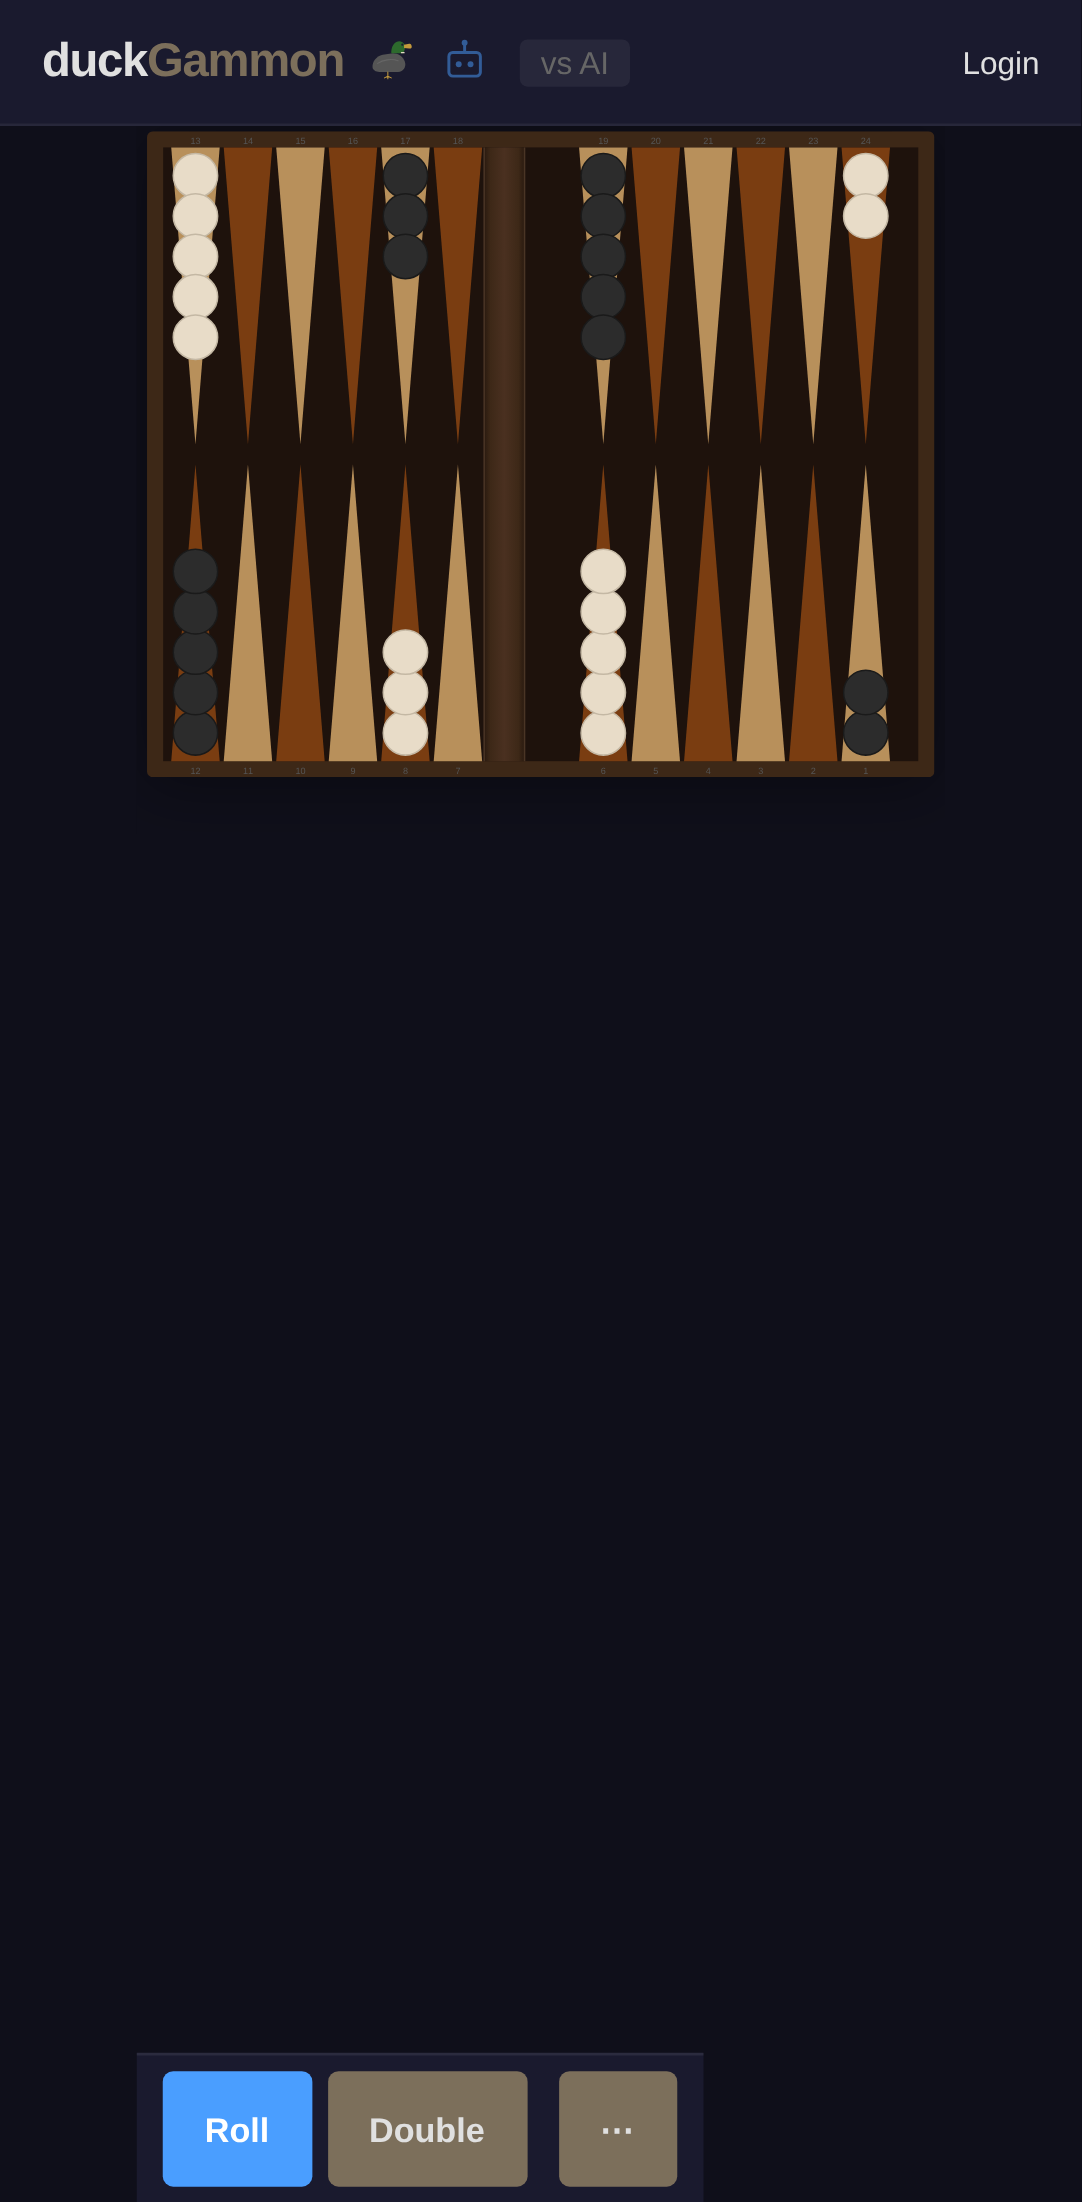
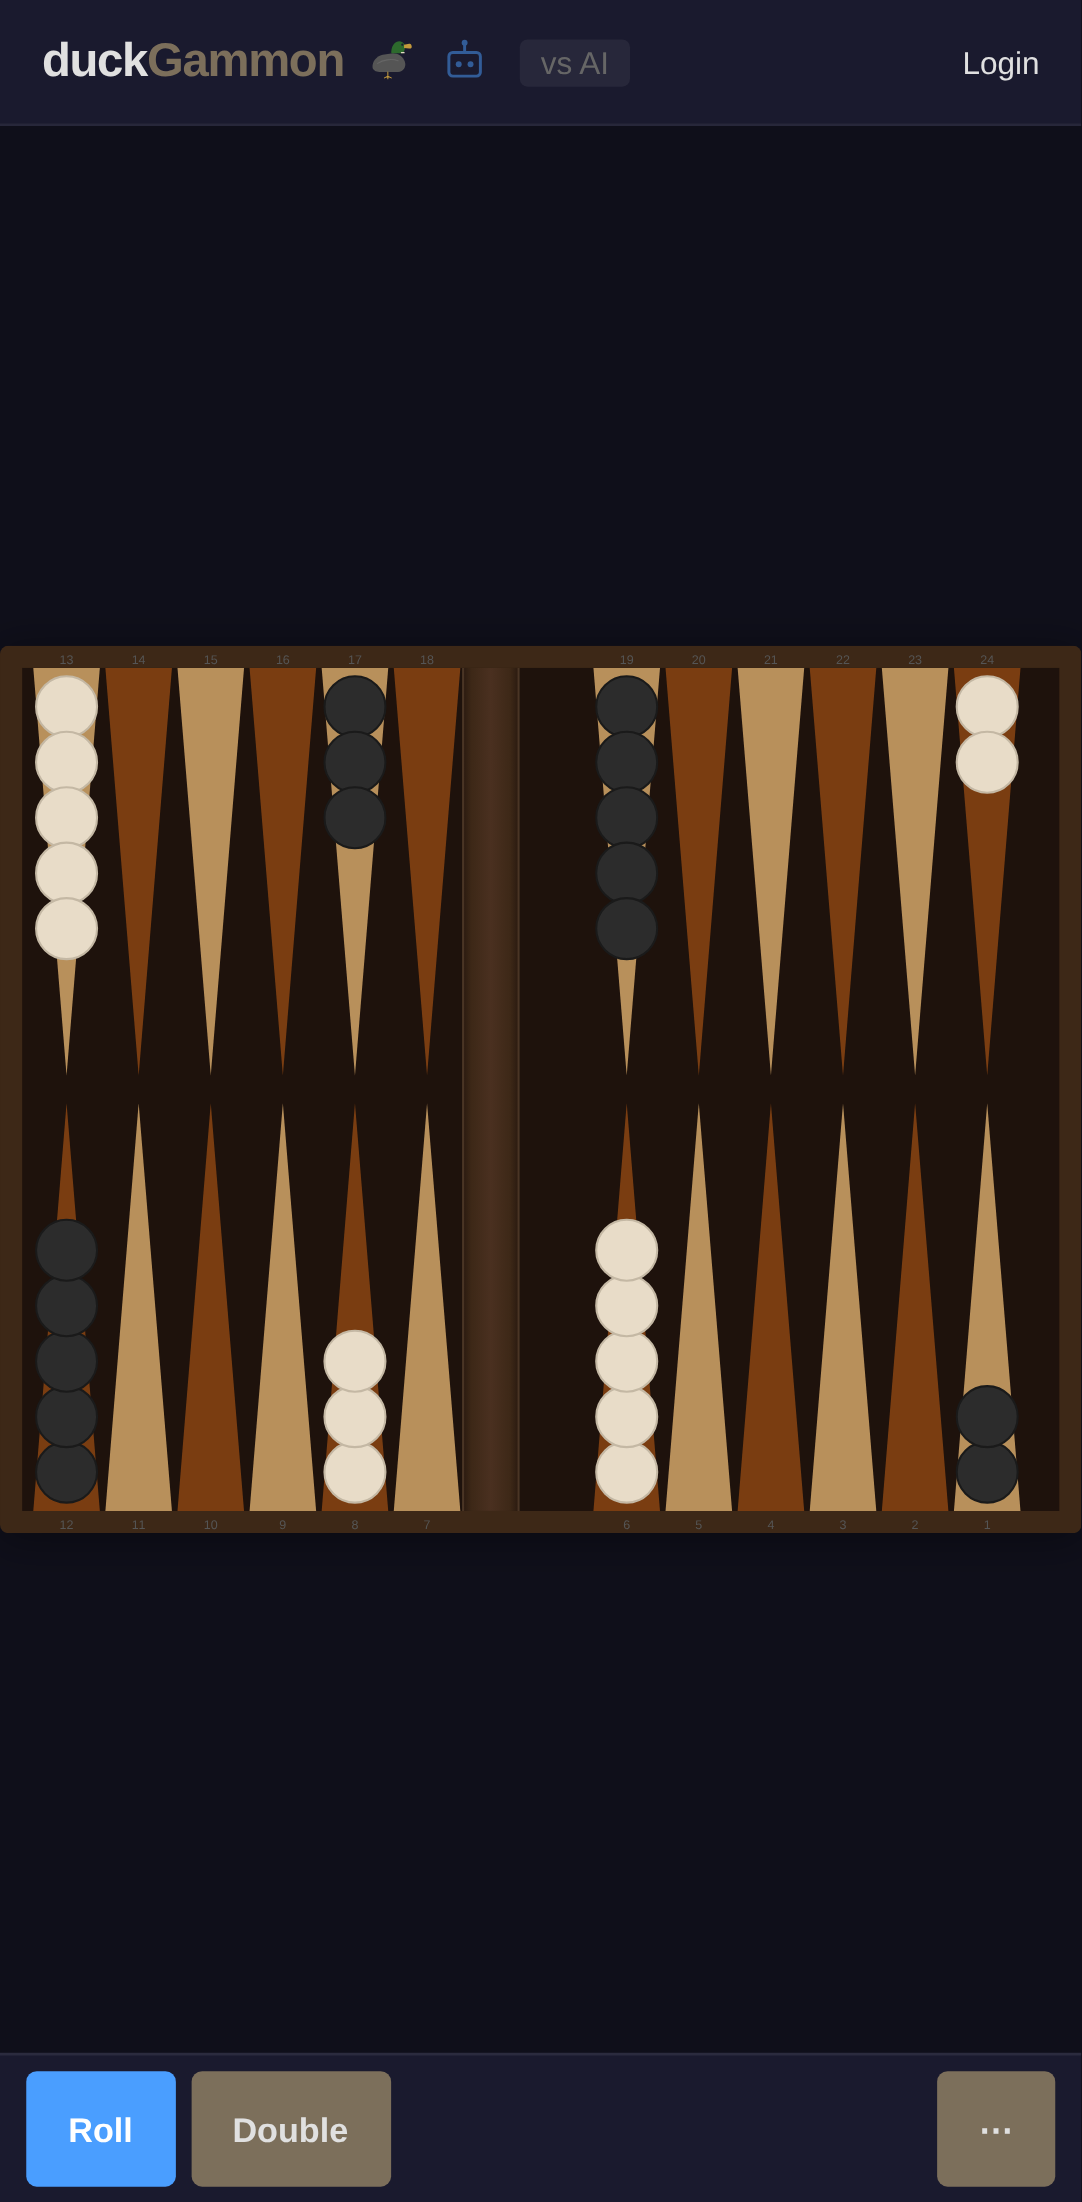
fix: mobile board sizing — full width, centered, correct CSS order
- Fixed CSS specificity issue: desktop .side-panel was defined AFTER the
  mobile media query, overriding mobile overlay styles. Moved desktop
  block before the media query so mobile rules win.
- Board SVG: width: 100%, height: auto — fills phone width, aspect ratio
  determines height. Centered vertically in available space.
- Action bar: explicit width: 100% to fill container.
- Board wrapper: takes available space without forcing SVG to stretch.
- Verified with Playwright screenshot: board renders correctly on
  Pixel 7 (412x839) at 412x338px, centered with action bar below.

All 220 vitest + 52 Playwright tests pass.

diff --git a/src/ui/styles/board.css b/src/ui/styles/board.css
@@ -36,6 +36,15 @@
   touch-action: manipulation;
 }
 
+/* Side panel — desktop */
+.side-panel {
+  width: 220px;
+  display: flex;
+  flex-direction: column;
+  gap: 10px;
+  flex-shrink: 0;
+}
+
 /* ─── Mobile action bar (hidden on desktop) ─── */
 .mobile-action-bar { display: none; }
 .mobile-backdrop { display: none; }
@@ -46,6 +55,7 @@
     flex-direction: column;
     padding: 0;
     gap: 0;
+    width: 100%;
     height: calc(100vh - var(--header-height));
     overflow: hidden;
   }
@@ -54,15 +64,23 @@
     flex: 1 1 0;
     min-height: 0;
     width: 100%;
-    padding: 2px 4px 0;
+    padding: 0;
+    justify-content: center;
+    align-items: center;
+    overflow: hidden;
+  }
+
+  .board-wrapper {
+    width: 100%;
+    max-height: 100%;
   }
 
   .board-svg {
+    display: block;
     width: 100%;
     height: auto;
-    max-height: calc(100vh - var(--header-height) - 56px - 8px);
     margin: 0 auto;
-    filter: drop-shadow(0 2px 12px rgba(0, 0, 0, 0.4));
+    filter: drop-shadow(0 2px 8px rgba(0, 0, 0, 0.4));
   }
 
   /* ─── Side panel: hidden by default, slides in as overlay ─── */
@@ -134,6 +152,7 @@
   .mobile-action-bar {
     display: flex;
     align-items: center;
+    width: 100%;
     gap: 6px;
     padding: 6px 10px;
     padding-bottom: calc(6px + env(safe-area-inset-bottom, 0));
@@ -410,14 +429,7 @@
   opacity: 0.3;
 }
 
-/* Side panel */
-.side-panel {
-  width: 220px;
-  display: flex;
-  flex-direction: column;
-  gap: 10px;
-  flex-shrink: 0;
-}
+/* Side panel — desktop base styles defined early so mobile media query overrides */
 
 .panel-section {
   background: var(--bg-secondary);
